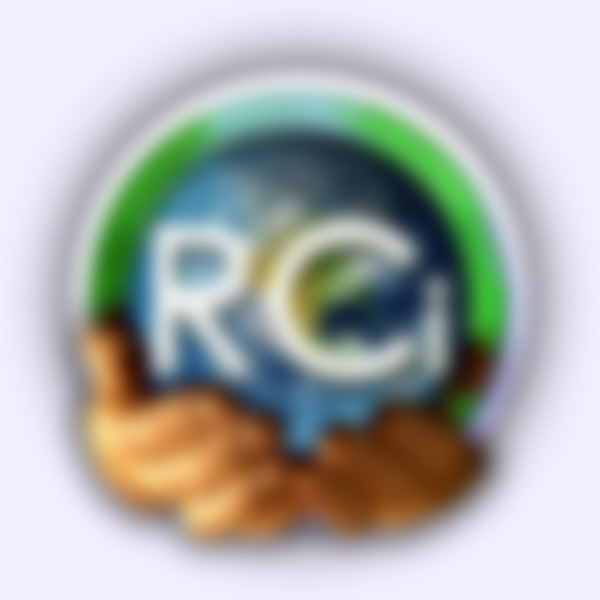
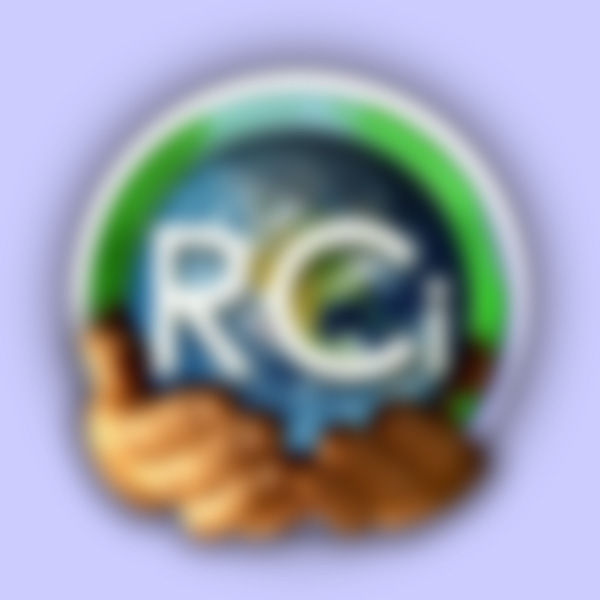
fix login + new main table design (9td)

diff --git a/public/stylesheets/style.css b/public/stylesheets/style.css
@@ -1,5 +1,5 @@
 body {
-    background-color: #f0f0ff;
+    background-color: #ccccff;
 	color: #333333;
 	margin-left: auto;
 	margin-right: auto;
@@ -95,7 +95,7 @@ div.progressBar div.background {
 ol.menu {
     margin: 0;
 	padding: 0;
-	display: inline-block;
+	display: block;
 	border: 1px solid #dddddd;
 	-moz-border-radius-bottomleft: 8px;
 	-moz-border-radius-bottomright: 8px;
@@ -162,7 +162,8 @@ ul.info {
 	-moz-border-radius-topleft: 5px;
 	-moz-border-radius-topright: 5px;
 	border-style: dashed;
-	display: block;
+	display: table;
+	line-height: 11px;
 }
 
 .header {
@@ -270,6 +271,7 @@ span.h1, span.h2 {
 
 table {
 	border: none;
+	border-spacing: 0;
 }
 
 table tbody {
@@ -349,16 +351,98 @@ form fieldset.inputs ol li input, select{
 
 span.last_login {
 	font-size: 9px;
+	display: block;
 }
 
 #main {
-	-moz-border-radius-bottomleft: 10px;
-	-moz-border-radius-bottomright: 10px;
-	-moz-border-radius-topleft: 10px;
-	-moz-border-radius-topright: 10px;
 	background-color: #ffffff;
-	padding-bottom: 10px;
-	padding-left: 10px;
-	padding-right: 10px;
-	padding-top: 10px;
+	position: relative;
+	margin: -15px;
+}
+
+/* DEFAULT TABLING */
+
+tr.tr_top, tr.tr_middle, tr.tr_bottom {
+	padding: 0;
+	margin: 0;
+	border: none;
+}
+
+td.td_top_left {
+	background-image: url(/images/corners/corner_top_left.png);
+}
+
+td.td_top {
+	background-image: url(/images/corners/TOP.png);
+}
+
+td.td_top_right {
+	background-image: url(/images/corners/corner_top_right.png);
+}
+
+td.td_left {
+	background-image: url(/images/corners/LEFT.png);
+}
+
+td.td_center {
+	
+}
+
+td.td_right {
+	background-image: url(/images/corners/RIGHT.png);
+}
+
+td.td_bottom_left {
+	background-image: url(/images/corners/corner_bottom_left.png);
+}
+
+td.td_bottom {
+	background-image: url(/images/corners/BOTTOM.png);
+}
+
+td.td_bottom_right {
+	background-image: url(/images/corners/corner_bottom_right.png);
+}
+
+/* end of DEFAULT TABLING */
+
+table.table_main {
+	display: table;
+	border: none;
+}
+
+table tbody.tbody_main {
+	display: table;
+	border: none;
+	padding: 0;
+	border-spacing: 0;
+	width: 800px;
+}
+
+tbody.tbody_main > tr > td {
+	display: table-cell;
+	border: none;
+	padding: 0;
+	margin: 0;
+	float: none;
+}
+
+tbody.tbody_main > tr > td.td_top_left {
+	width: 48px;
+	height: 48px;
+}
+
+tbody.tbody_main > tr > td.td_top_right {
+	width: 48px;
+	height: 48px;
+}
+
+tbody.tbody_main > tr > td.td_bottom_left {
+	width: 48px;
+	height: 48px;
+}
+
+tbody.tbody_main > tr > td.td_bottom_right {
+	width: 48px;
+	height: 48px;
 }

diff --git a/public/stylesheets/login.css b/public/stylesheets/login.css
@@ -117,6 +117,8 @@ fieldset.inputs, fieldset.buttons {
 	-moz-border-radius-bottomright: 5px;
 	-moz-border-radius-topleft: 5px;
 	-moz-border-radius-topright: 5px;
+	background-color: transparent;
+	background-image: url(/images/login_input_background_color.png);
 }
 
 #user_session_submit {
@@ -177,7 +179,7 @@ form fieldset.inputs ol li input, select{
 }
 
 body {
-    background-color: #f0f0ff;
+    background-color: #ccccff;
     color: #333;
     padding: 0 0 0 0;
 	margin-left: auto;

diff --git a/app/helpers/tables_helper.rb b/app/helpers/tables_helper.rb
@@ -1,6 +1,6 @@
 module TablesHelper
   def table_for(klass, list, *columns)
-    concat(content_tag('table', :cellspacing => 0, :border => 1) do
+    concat(content_tag('table') do
       content_tag('tr') do
         columns.collect do |column|
           content_tag 'th', klass.human_attribute_name(column)
